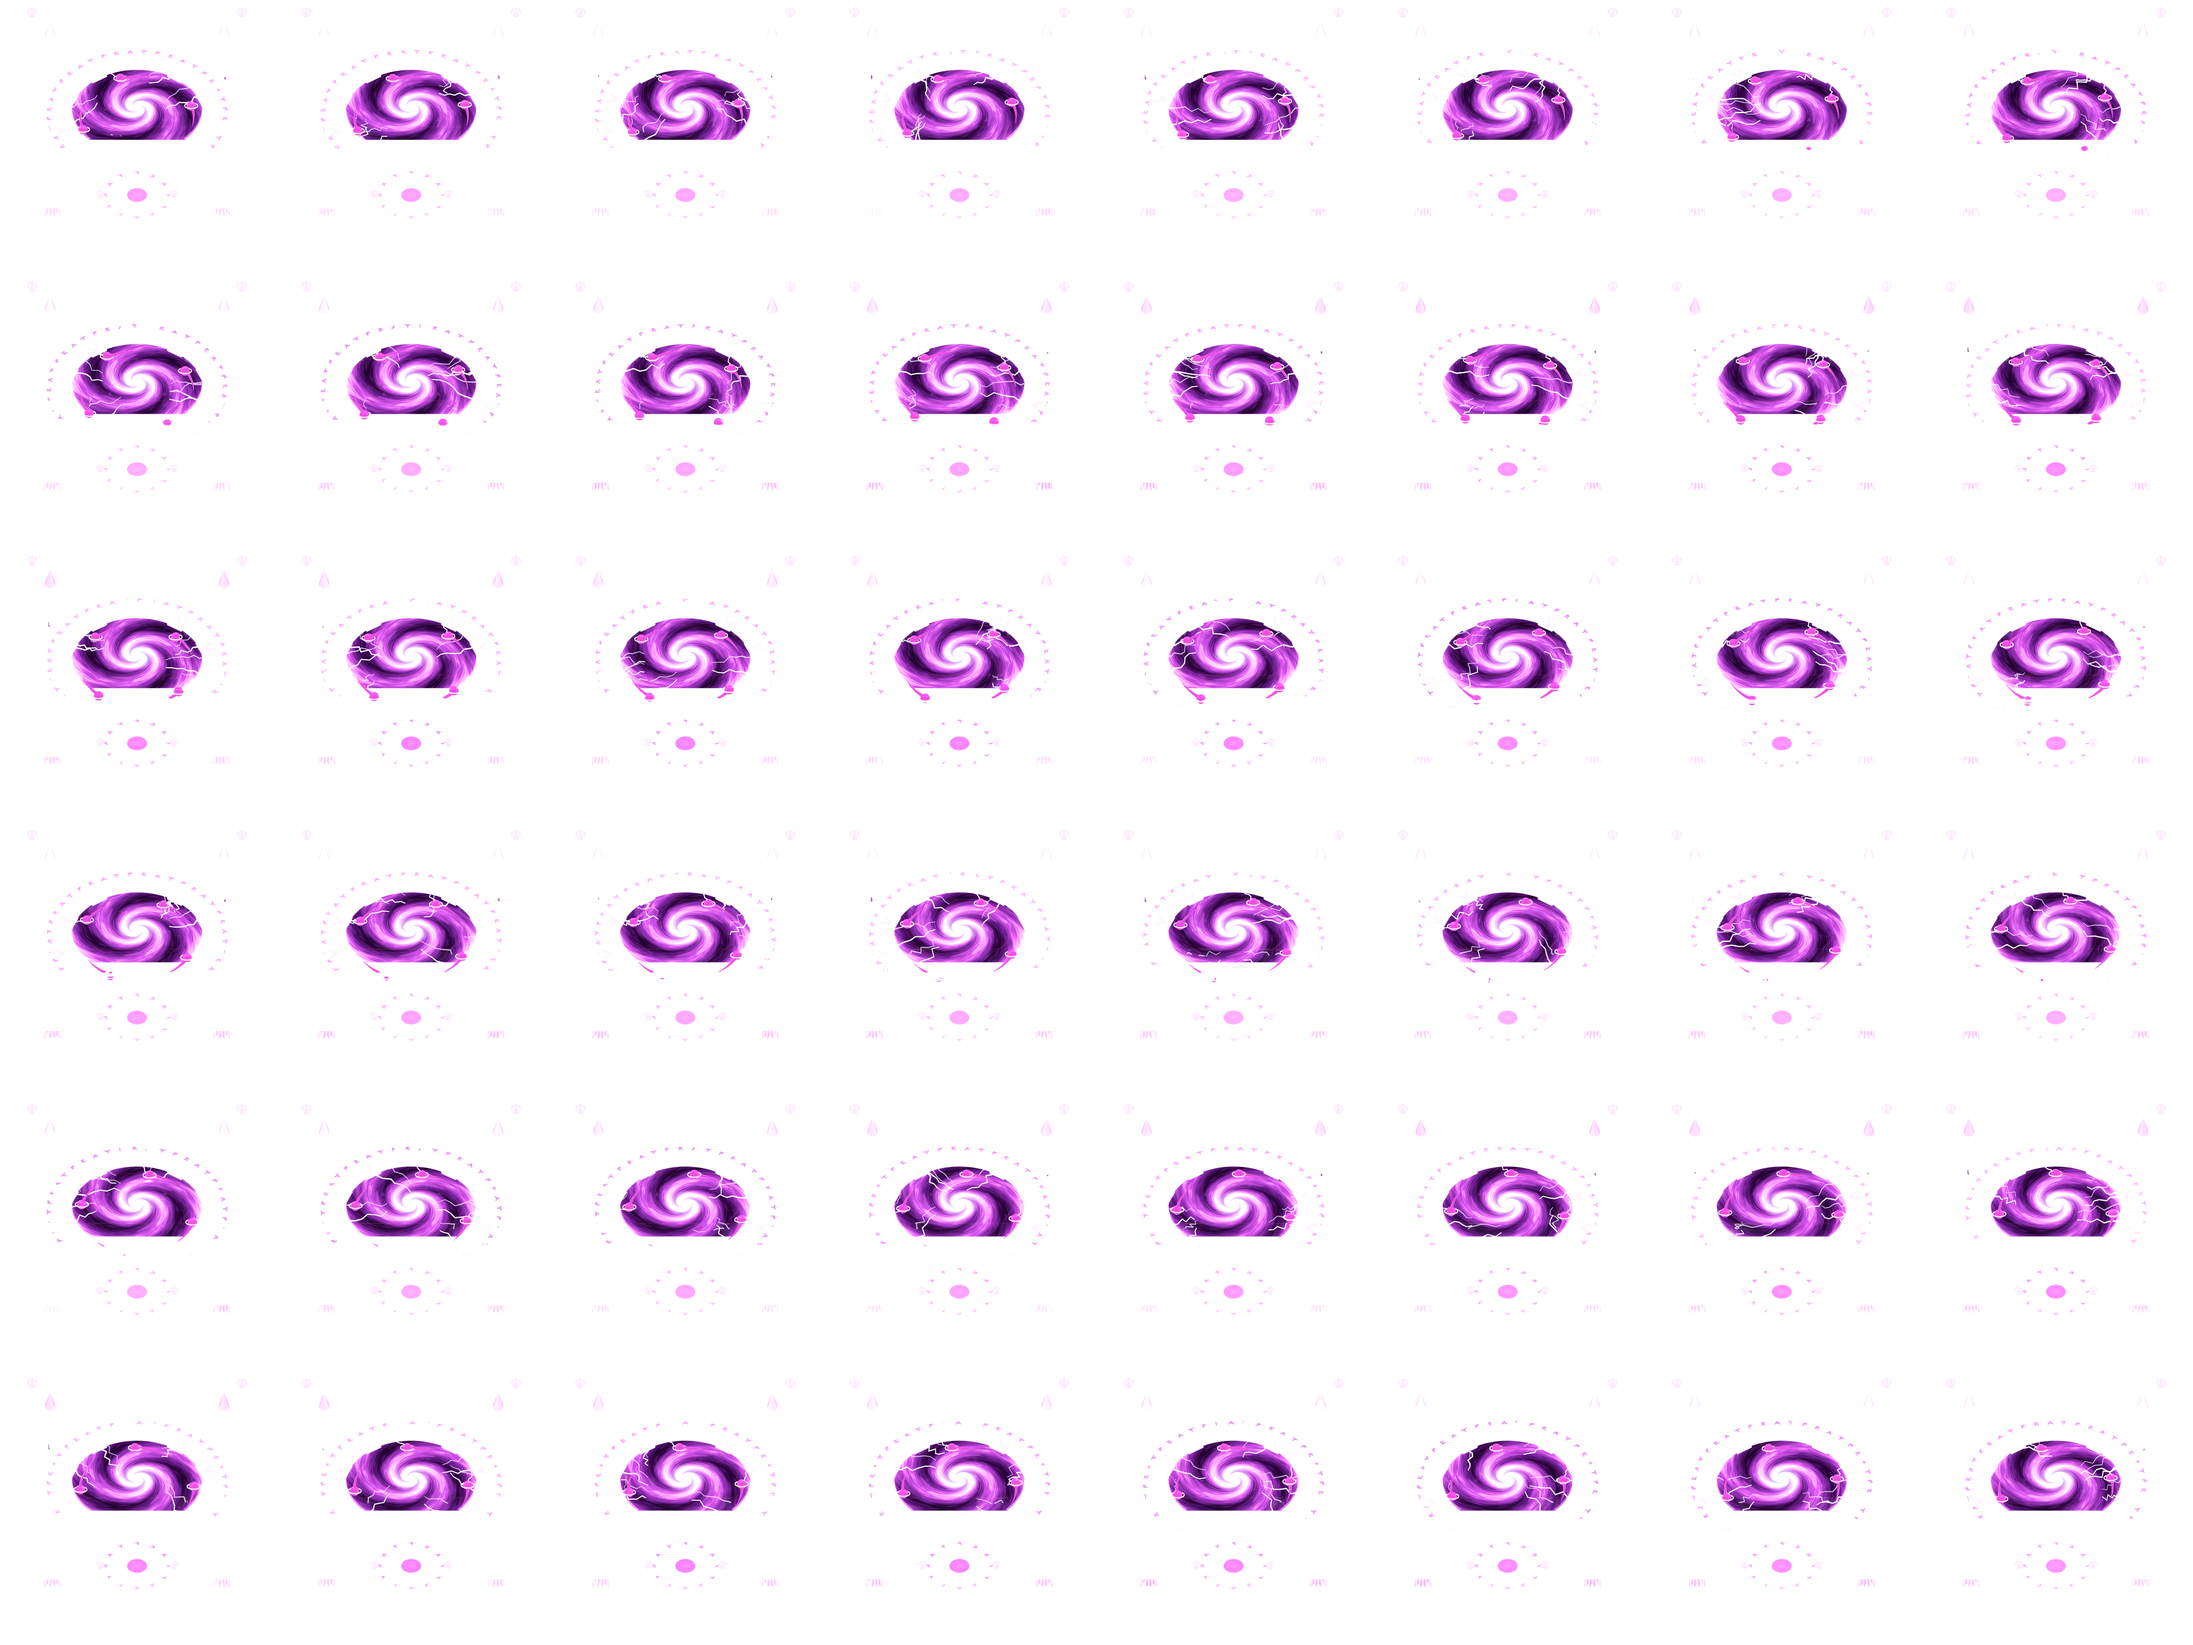
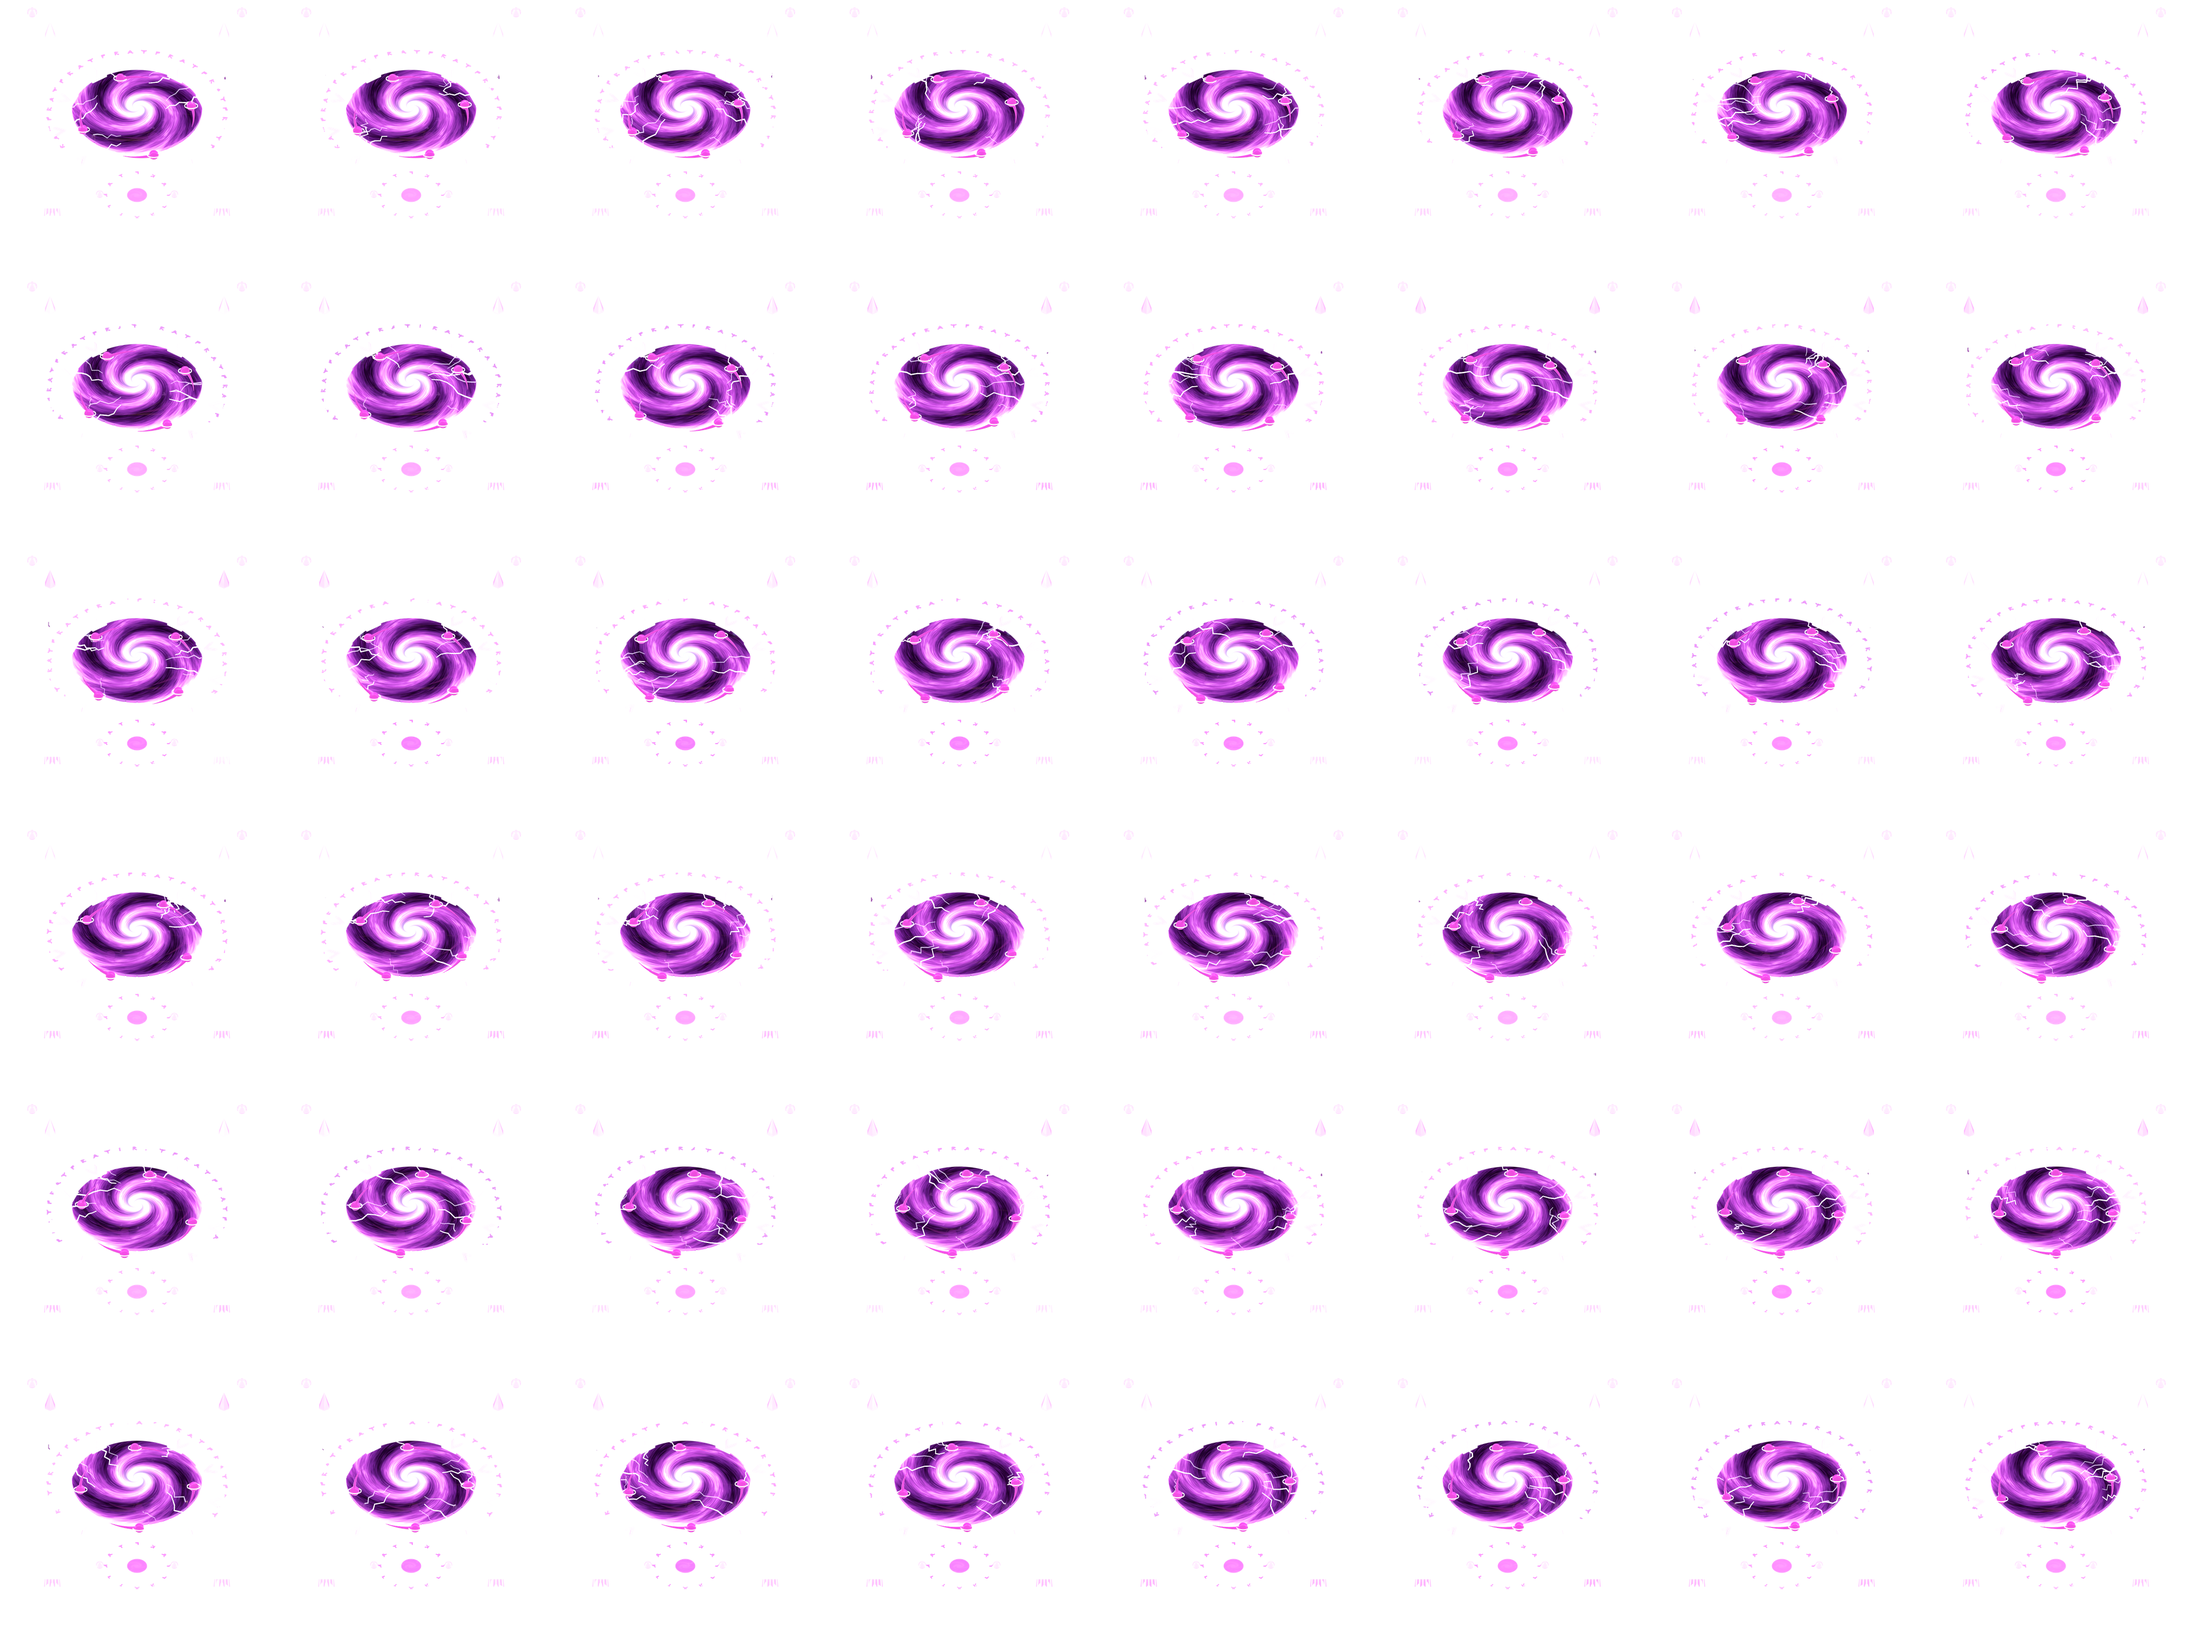
Show the portal's full ring by opening a pit under the gate

diff --git a/blender/portal.py b/blender/portal.py
@@ -379,14 +379,14 @@ def oct_notched_top(h, ch, inset):
 T1_H, T2_H = 3.47, 3.13
 _, t1p = prism("tier1", oct_notched(T1_H, 0.95), 0.0, T1_Z, SLATE,
                top_poly=oct_notched_top(T1_H, 0.95, 0.12))
-_, t2p = prism("tier2", oct_notched(T2_H, 0.82), T1_Z, DAIS_Z, PURPLE,
+TIER2, t2p = prism("tier2", oct_notched(T2_H, 0.82), T1_Z, DAIS_Z, PURPLE,
                top_poly=oct_notched_top(T2_H, 0.82, 0.1))
 T2_TOP = oct_notched_top(T2_H, 0.82, 0.1)
 # paving on the dais top
 bm = bmesh.new()
 vs = [bm.verts.new((x, y, DAIS_Z + 0.002)) for x, y in T2_TOP]
 bm.faces.new(vs)
-mesh_obj("dais_floor", bm, PAVING, root)
+DAIS_FLOOR = mesh_obj("dais_floor", bm, PAVING, root)
 # heavy gold rails along the tier edges, rivets on the slate tier
 rail("t1_top_rail", [(x, y, T1_Z + 0.01) for x, y in oct_notched_top(T1_H, 0.95, 0.12)], 0.05,
      closed=True)
@@ -798,15 +798,45 @@ CR_X, CR_Z = 2.35, DAIS_Z + 0.42
 cr_bot = [(-CR_X, YG - 0.55), (CR_X, YG - 0.55), (CR_X, YG + 0.5), (-CR_X, YG + 0.5)]
 cr_top = [(-CR_X + 0.15, YG - 0.4), (CR_X - 0.15, YG - 0.4), (CR_X - 0.15, YG + 0.4),
           (-CR_X + 0.15, YG + 0.4)]
-_, crp = prism("cradle", cr_bot, DAIS_Z, CR_Z, PURPLE, top_poly=cr_top)
-decorate(crp[0], "cradle_front", seg_len=0.9, fil_r=0.034)
-rail("cradle_rail", [(x, y, CR_Z + 0.01) for x, y in cr_top], 0.06, closed=True)
-for k, p in enumerate((crp[1], crp[3])):
-    decorate(p, f"cradle_side{k}", seg_len=1.0, fil_r=0.03)
-# threshold step in the aperture: gold-edged, where the player walks through
-box("threshold", (2 * RA - 0.6, 0.9, 0.06), (0, YG, CR_Z + 0.03), SLATE, bevel=0.015)
-rail("threshold_edge", [(-RA + 0.3, YG - 0.45, CR_Z + 0.06), (RA - 0.3, YG - 0.45, CR_Z + 0.06)],
-     0.04)
+# The saddle is split into two blocks under the ring's flanks
+# and the ring sinks into a gold-lipped trench between them, so the whole
+# circle of the ring and the vortex shows instead of a straight cut-off.
+CR_IN = 1.55
+for sx in (-1, 1):
+    xi, xo = sx * CR_IN, sx * CR_X
+    xo_t = sx * (CR_X - 0.15)
+    bot = [(xi, YG - 0.55), (xo, YG - 0.55), (xo, YG + 0.5), (xi, YG + 0.5)]
+    top = [(xi, YG - 0.4), (xo_t, YG - 0.4), (xo_t, YG + 0.4), (xi, YG + 0.4)]
+    if sx < 0:
+        bot = [bot[1], bot[0], bot[3], bot[2]]
+        top = [top[1], top[0], top[3], top[2]]
+    _, crp = prism(f"cradle{sx}", bot, DAIS_Z, CR_Z, PURPLE, top_poly=top)
+    decorate(crp[0], f"cradle_front{sx}", seg_len=0.9, fil_r=0.034,
+             motif=lambda k, n: "lyre")
+    rail(f"cradle_rail{sx}", [(x, y, CR_Z + 0.01) for x, y in top], 0.06, closed=True)
+    cyl(f"cradle_post{sx}", 0.09, 0.2, (xi, YG - 0.45, CR_Z + 0.1), GOLD, verts=16)
+    sphere(f"cradle_post_gem{sx}", 0.06, (xi, YG - 0.45, CR_Z + 0.24), RUBY)
+# a real pit cut into the dais: from 45 deg above the camera sees down
+# into it as deep as it is wide, so the lower lip of the ring shows
+PIT_Y0, PIT_Y1, PIT_Z = YG - 0.42, YG + 0.42, 0.2
+cutter = box("pit_cutter", (2 * CR_IN, PIT_Y1 - PIT_Y0, DAIS_Z - PIT_Z + 0.2),
+             (0, YG, (DAIS_Z + PIT_Z + 0.2) / 2), DARK, bevel=0.0)
+cutter.hide_render = True
+for target in (TIER2, DAIS_FLOOR):
+    bo = target.modifiers.new("pit", "BOOLEAN")
+    bo.operation = "DIFFERENCE"
+    bo.object = cutter
+    bo.solver = "EXACT"
+    if target.modifiers[0].name != "pit":     # cut before bevelling
+        bpy.context.view_layer.objects.active = target
+        bpy.ops.object.modifier_move_to_index(modifier="pit", index=0)
+box("pit_floor", (2 * CR_IN, PIT_Y1 - PIT_Y0, 0.04), (0, YG, PIT_Z + 0.02), DARK, bevel=0.0)
+for k in range(7):       # bronze grating ribs on the pit floor
+    x = -CR_IN + 2 * CR_IN * (k + 0.5) / 7
+    box(f"pit_rib{k}", (0.05, PIT_Y1 - PIT_Y0, 0.05), (x, YG, PIT_Z + 0.06), BRONZE,
+        bevel=0.006)
+for yy in (PIT_Y0, PIT_Y1):            # gold lips round the pit
+    rail(f"pit_lip{yy}", [(-CR_IN, yy, DAIS_Z + 0.02), (CR_IN, yy, DAIS_Z + 0.02)], 0.05)
 
 # crystal obelisks at the back corners: they store the essence for the dial
 OB = 2.38
